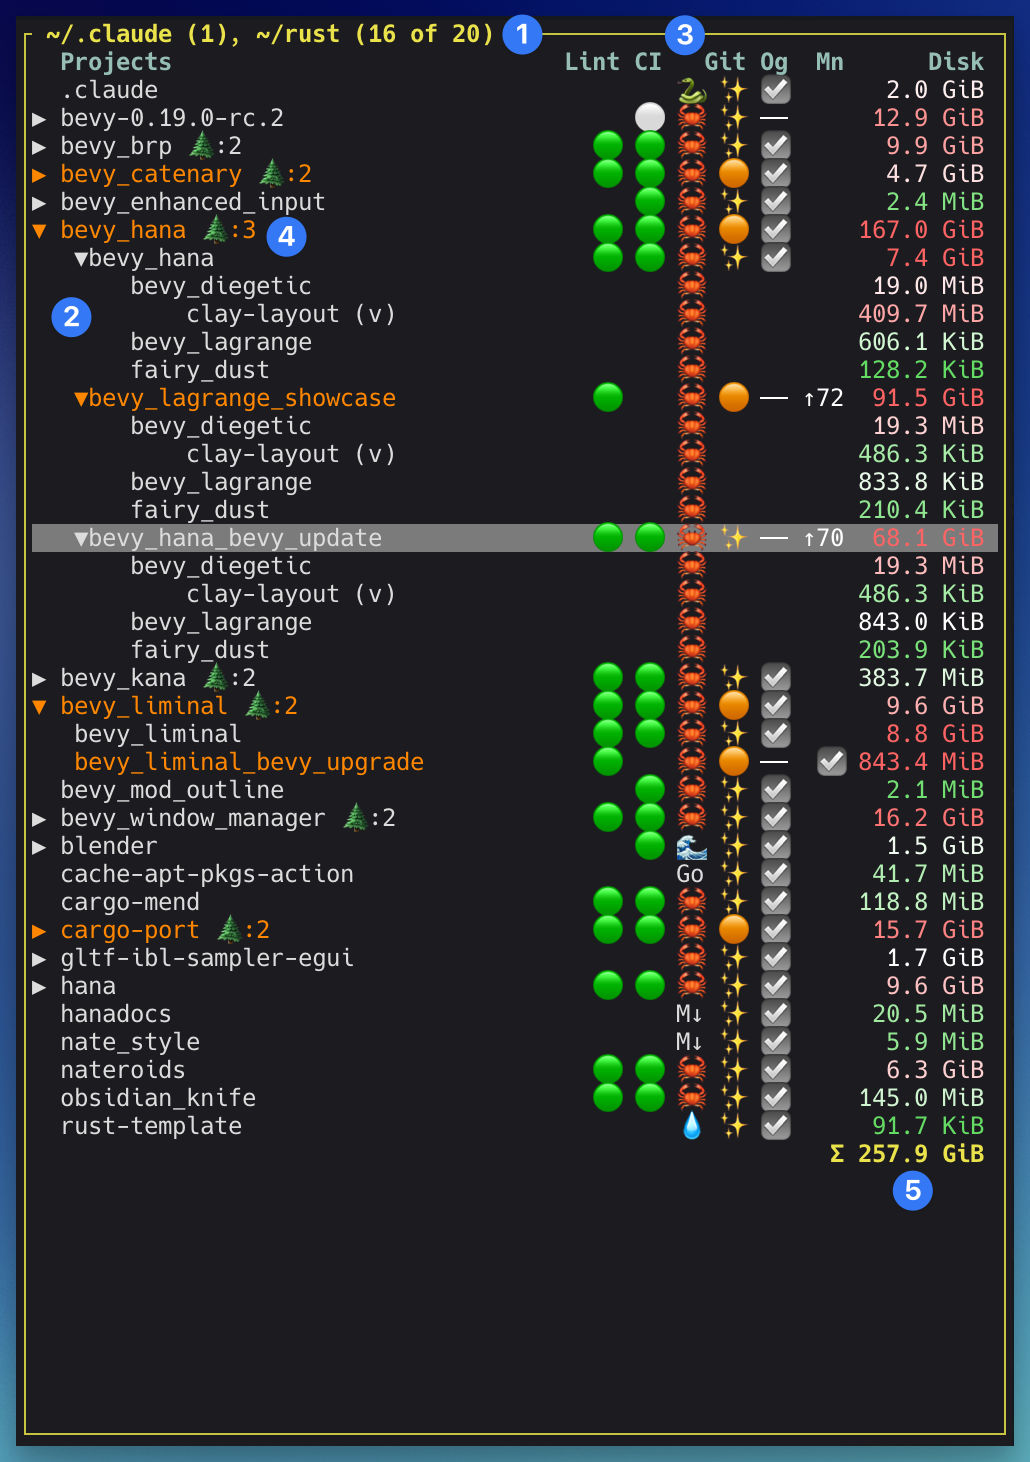
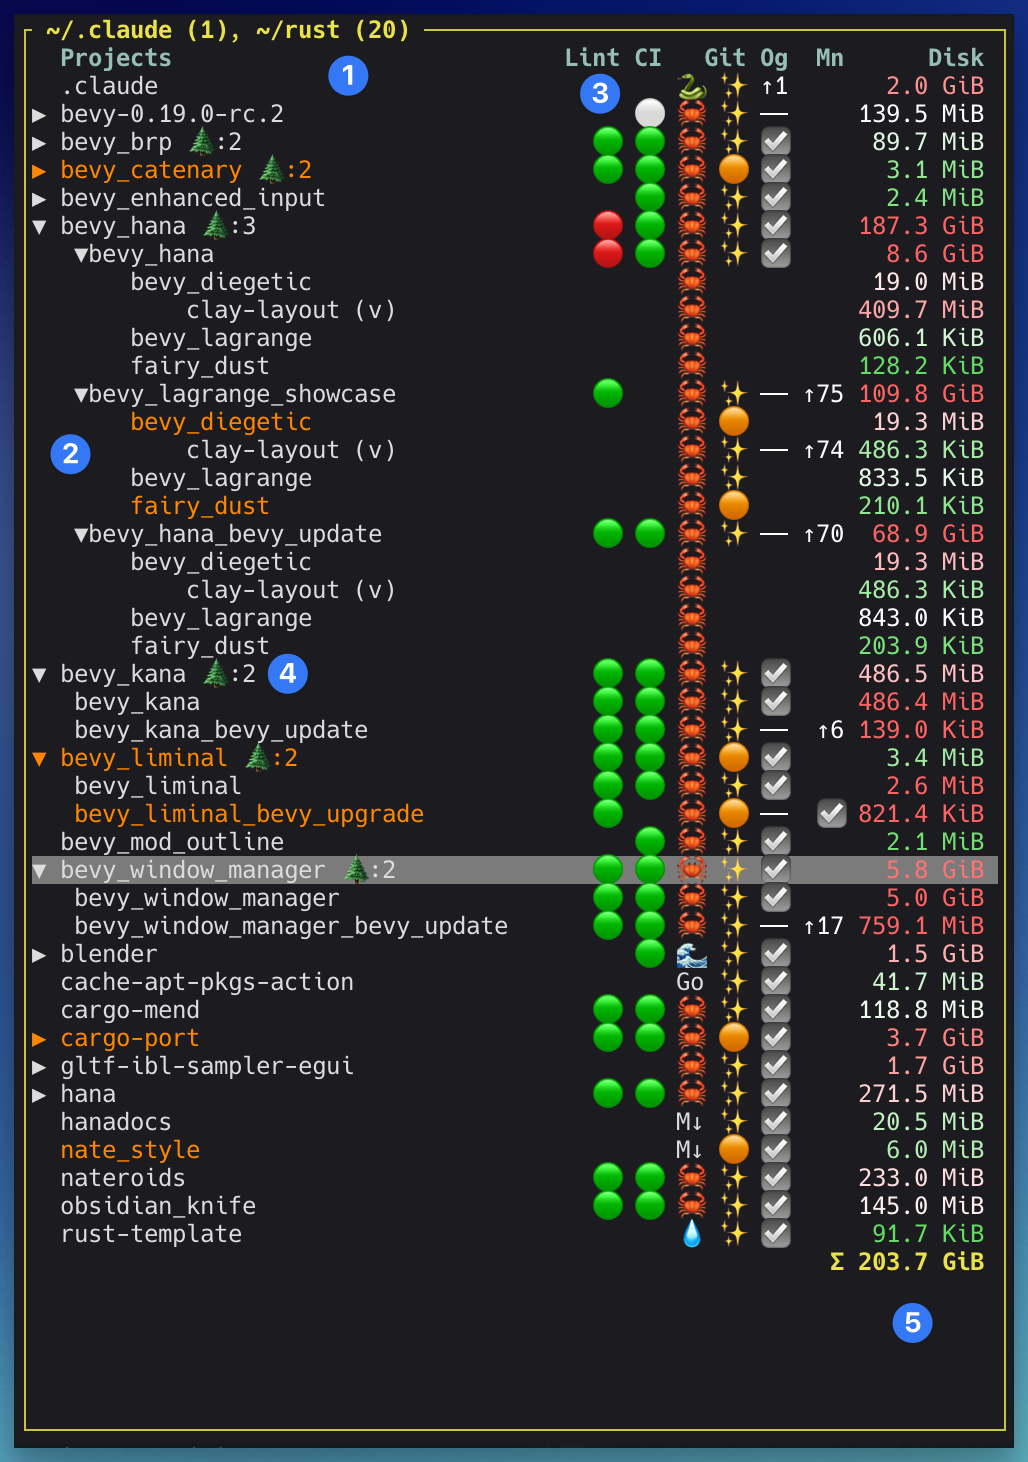
docs: expand README details walkthrough, refresh dashboard screenshots
- Add emoji legend to status columns (CI 🟢🔴⚪⚫, git status, sync ☑, disk Σ)
- Document worktree-group tree emoji (🌲) and checkout count notation (🌲:2)
- Rename "Workspace Details" section to "Details"; list the six detail
  screen types (worktree group, workspace, package, non-rust, submodule,
  vendored crate)
- Add "Worktree Group Details" subsection covering worktree count, disk,
  lint rollup, and cached vs GitHub CI results
- Add "Primary Package Details" subsection covering path, disk split,
  type, Cargo.toml metadata, structure counts, and test counts
- Refresh dashboard-main, dashboard-overview-numbered, and
  pane-project-tree-numbered screenshots

Changed region(s): [[0.0311, 0.0, 0.9961, 0.985], [0.5603, 0.2462, 0.6226, 0.277], [0.8716, 0.8926, 0.9027, 0.9234]]

diff --git a/crates/cargo-port/README.md b/crates/cargo-port/README.md
@@ -62,24 +62,43 @@ The Project Tree is the main navigation point for the app - other panes adapt to
 2. Hierarchical project list with expandable workspaces, members, worktrees, submodules, and vendored crates. You can configure whether non-Rust git projects are included. 
 3. - Status columns
 	1. Lint pass/fail - a lint command configurable in settings. Lint column will show an activity spinner for a currently running lint. 
-	2. CI pass/fail/skipped/cancel. Not shown if ci is not configured or if a remote isn't configured for a branch. Currently only supports GitHub.
-	3. Git status (clean, modified, untracked)
-	4. Origin sync - whether the project is synced with configured origin or ahead/behind
-	5. main sync whether a worktree checkout is synced with the main branch or ahead/behind
-	6. Disk usage
-4. Worktree-group rows with branch and status rollups. Any row with a tree emoji is a worktree group and appends the count of checkouts next to it.  You can expand it to see info about each separate checkout.
+	2. CI passed 🟢, failed 🔴, skipped ⚪, cancelled ⚫. Not shown if ci is not configured or if a remote isn't configured for a branch. Currently only supports GitHub.
+	3. Git status - clean ✨, modified 🟠, untracked 🟢
+	4. Origin sync - whether the project is synced (☑), with configured origin or ahead/behind
+	5. main sync whether a worktree checkout is synced (☑) with the main branch or ahead/behind
+	6. Disk usage - <span style="color: yellow;">Σ</span>
+4. Worktree-group rows with branch and status rollups. Any row with a tree emoji (🌲) is a worktree group and appends the count of checkouts next to it (🌲:2).  You can expand it to see info about each separate checkout.
 5. Total disk usage across the visible project set because, you know, rustc consumes a lot of disk.  There is a keyboard shortcut (defaults to 'c') to clean the currently selected workspace/project.
 
-### Workspace Details
+### Details
+There are separate details screens for:
+- Worktree Group
+- Workspace
+- Package
+- Non-rust Project
+- Git Submodule
+- Vendored crate
+We'll show the Worktree Group as an example below. Run the app to see any of these that match up with your projects. They're pretty self-explanatory so we'll just cover the Worktree Group as one of the more comprehensive examples.
 
 <img src="assets/pane-details-numbered.png" alt="Numbered workspace details pane" width="75%">
 
+#### Worktree Group Details
 1. Selected row title and description.
-2. Path on disk
-3. Disk split between `target/` and everything else.
-4. Lint and CI Status
-5. If published, version locally, version on crates.io and download
-6. Structure counts for workspaces, libraries, binaries, proc-macros, examples, test files and benches
+2. Number of worktrees
+3. Total space on disk
+4. Rollup of lint runs - if any are failed this would show failed
+5. CI results from GitHub - counts of what run summaries are locally cached vs only on GitHub
+
+#### Primary Package Details
+This is the path to where the actual .git repo is. Cargo port considers it "primary".
+6. Path on disk
+7. Disk split between `target/` and everything else.
+8. Type
+9. Cargo.toml metadata 
+10. Structure counts for workspaces, libraries, binaries, proc-macros, examples, test files and benches
+11. Counts of tests (unit, integration, doc and ignored)
+
+Missing from this view
 
 ### Git
 
